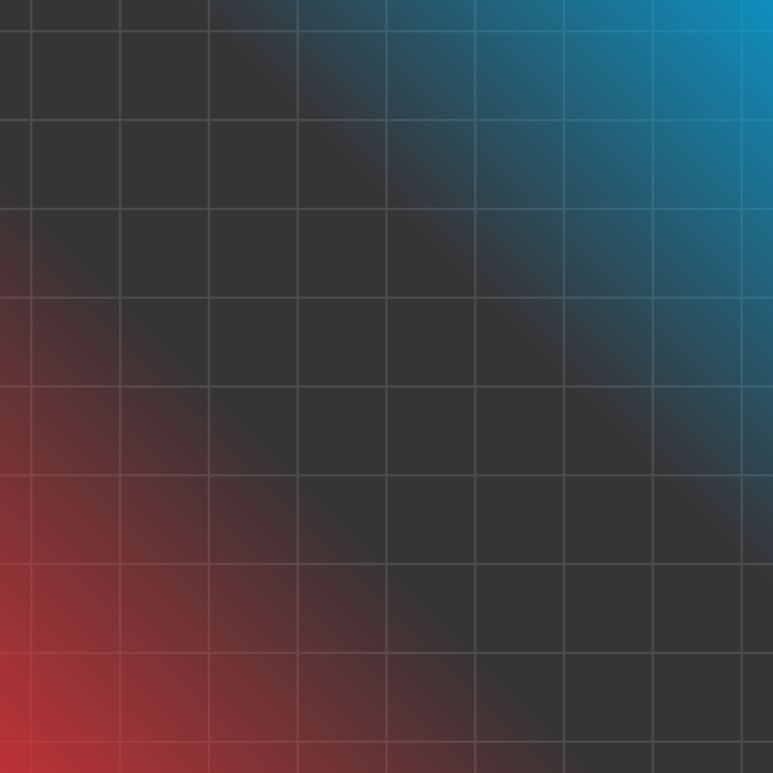
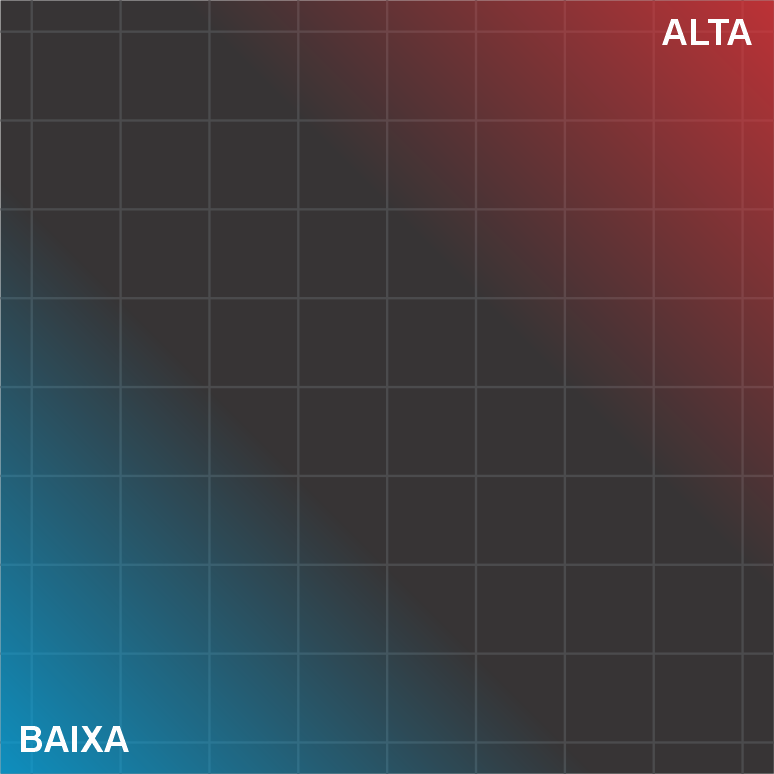
imagens

diff --git a/my-app/app/(app)/ferramentas/uv/page.tsx b/my-app/app/(app)/ferramentas/uv/page.tsx
@@ -55,13 +55,13 @@ export default function UV() {
             titulo="Lanterna UV"
             subTitulo="Rastreio espectros plasmáticos deixados pelas entidades."
             hiddenVar={true}
-            helpTExt={`Arraste a lanterna sobre a área para revelar os espectros registrados pela luz UV. Analise a cor e o número de espectros para determinar a presença da entidade.
+            helpTExt={`Arraste a lanterna sobre a área para revelar os espectros registrados pela luz UV. Analise a cor e o número de espectros para determinar a agressividade da entidade.
 
-            1-2 > PRESENÇA BAIXA
+            1-2 > BAIXA
 
-            3-5 > PRESENÇA MÉDIA
+            3-5 > MÉDIA
 
-            6-7 > PRESENÇA ALTA`}
+            6-7 > ALTA`}
             />
             <div
                 ref={areaRef}

diff --git a/my-app/app/(app)/documentos/components/cards.tsx b/my-app/app/(app)/documentos/components/cards.tsx
@@ -23,7 +23,7 @@ export default function CardsFantasma({ fantasmas, liberado }: Props) {
                 <Image
                     src={liberado ? fantasmas.imagem : "/bloqueado.png"}
                     alt={liberado ? fantasmas.nome : "Imagem bloqueada"}
-                    height={400} width={200} loading="eager" className="flex-1 mix-blend-multiply"/>
+                    height={350} width={160} loading="eager" className="flex-1 mix-blend-multiply"/>
                 <div className="text-right text-xs flex flex-col gap-2 px-4 pb-4 items-end">
                     <p><span className="font-bold">Região:</span> {info(fantasmas.regiao)}</p>
                     <p><span className="font-bold">Origem:</span> {info(fantasmas.surgimento)}</p>

diff --git a/my-app/app/components/titulo.tsx b/my-app/app/components/titulo.tsx
@@ -30,7 +30,7 @@ export default function Titulo(Props: Props) {
                 ?
             </button>
             {modalTips && (
-                <div className="fixed h-dvh w-dvw p-12 bg-zinc-900/80 z-10 top-0 left-0 flex items-center justify-center">
+                <div className="fixed h-dvh w-dvw p-12 bg-zinc-900/80 z-100 top-0 left-0 flex items-center justify-center">
                     <div className="w-full bg-orange-300 rounded-lg p-4 flex flex-col gap-8 items-center justify-center text-zinc-900 font-semibold text-center">
                         <p style={{ whiteSpace: "pre-line" }}>{Props.helpTExt}</p>
                         {Props.imagem && (
